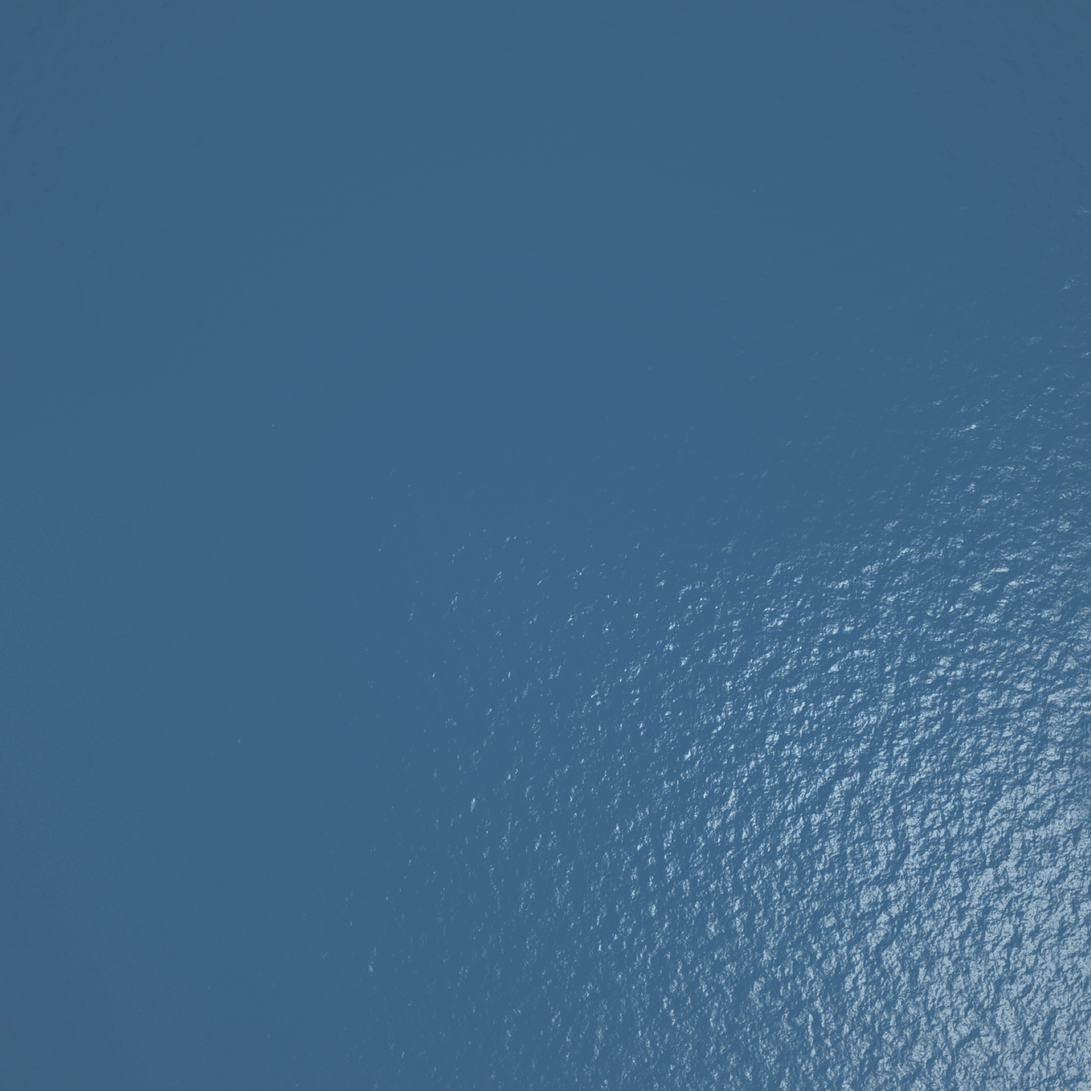
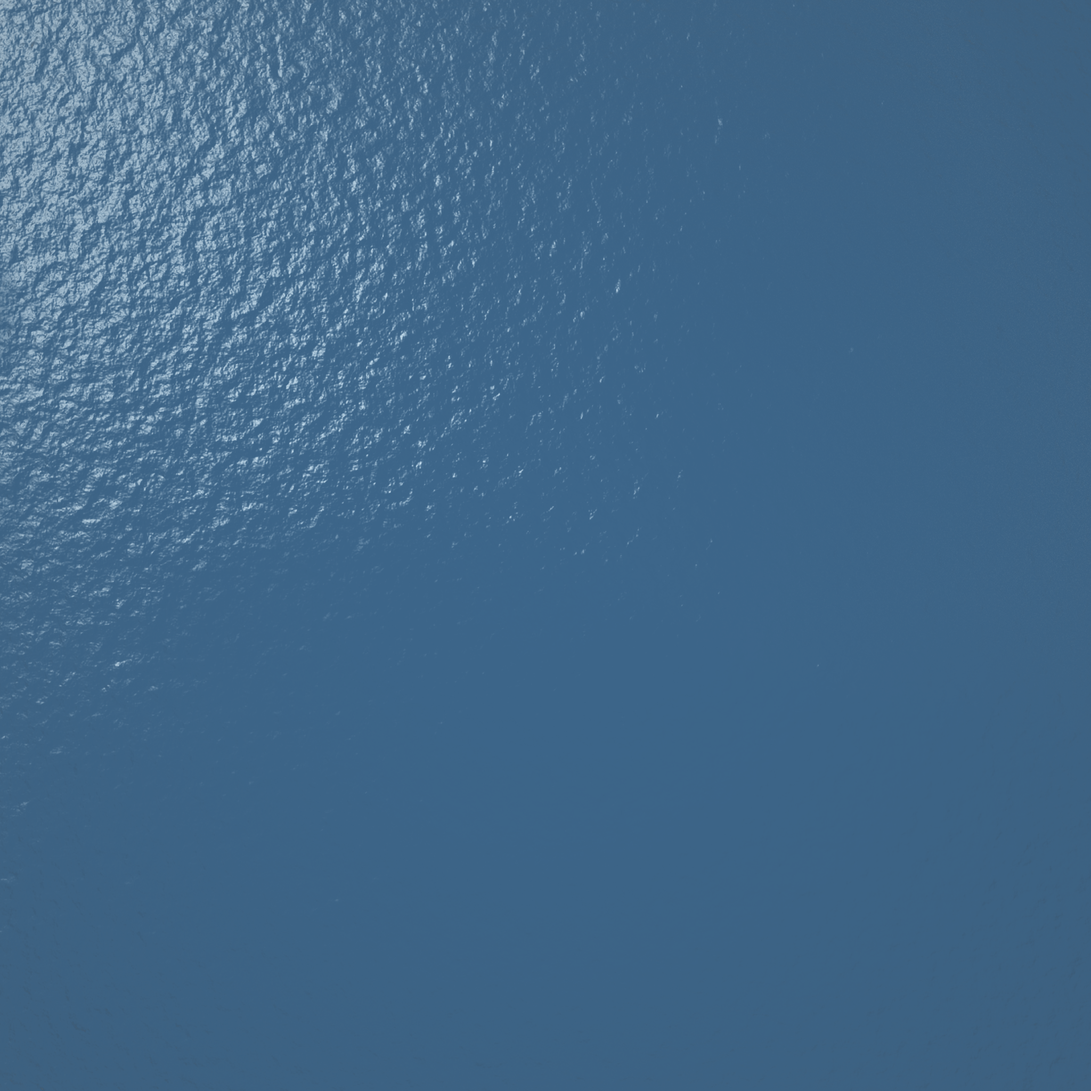
[task] Improved skybox and did minor fixes

Changed region(s): [[0.5625, 0.4688, 1.0, 1.0], [0.0, 0.0, 0.4375, 0.5312]]

diff --git a/snow.html b/snow.html
@@ -50,6 +50,12 @@
            // Global mesh object of the cube 
            var cubeMesh; 
 
+           var floorMaterial;
+           var floorGeometry;
+           var snowMaterial;
+           var snow;
+           var context;
+
            // Initialize the scene 
            initializeScene(); 
 
@@ -109,7 +115,72 @@
                // Add lights
                addLights();
 
+
+               var loader = new THREE.TextureLoader();
+
+               // Canvas
+               var canvas = document.createElement('canvas');
+               canvas.width = canvas.height = 10;
+               this.context = canvas.getContext('2d');
+
+               // -- GEOMETRY --
+
+               this.floorGeometry = new THREE.PlaneGeometry( 10, 10 , 256, 256);
+               this.floorGeometry.computeFaceNormals();
+               this.floorGeometry.computeVertexNormals();
+
+               // -- MATERIAL -- 
+               var texture = loader.load('terrain.jpg');
+               this.floorMaterial = new THREE.MeshPhongMaterial({
+                  map: texture,
+                  shading: THREE.SmoothShading,
+                  ambient: 0x404040
+
+               });
+
+               var snowTexture = new THREE.Texture(canvas);
+               
+               this.snowMaterial = new THREE.MeshPhongMaterial({
+                  map: snowTexture,
+                  // bumpMap: loader.load('snow-bump.jpg'),
+                  // bumpScale: 0.1,
+                  shading: THREE.SmoothShading,
+                  transparent: true
+               });
+
+               snowMaterial.needsUpdate = true;
+               
+               // -- MESH --
+               var floor = new THREE.Mesh( floorGeometry, floorMaterial );
+               floor.rotation.x = -Math.PI / 2;
+               floor.castShadow = true;
+               floor.receiveShadow = true;
+               scene.add( floor );
+               
+               var snow = new THREE.Mesh(floorGeometry, this.snowMaterial);
+               snow.rotation.x = -Math.PI / 2;
+               snow.castShadow = true;
+               snow.receiveShadow = true;
+               scene.add(snow);
+               this.snow = snow;
+
                // SKYBOX
+               /*
+               TODO: change loading to CubeTextureLoader
+               var urlPrefix = "skybox/";
+               var loader = new THREE.CubeTextureLoader();
+               var urls = [ urlPrefix + "xpos.png", urlPrefix + "xneg.png", urlPrefix + "ypos.png", urlPrefix + "yneg.png",urlPrefix + "zpos.png", urlPrefix + "zneg.png" ];
+               var textureCube = loader.load(urls);
+               var skyMaterial= new THREE.MeshBasicMaterial( {
+                    color: 0xffffff,
+                    envMap: textureCube,
+                    side: THREE.BackSide
+                });
+                var skyGeometry = new THREE.BoxGeometry(100, 100, 100);
+                var skyMesh = new THREE.Mesh(skyGeometry, skyMaterial);
+                scene.add(skyMesh);
+                */
+
                var urlPrefix = "skybox/";
                var urls = [ urlPrefix + "xpos.png", urlPrefix + "xneg.png", urlPrefix + "ypos.png", urlPrefix + "yneg.png",urlPrefix + "zpos.png", urlPrefix + "zneg.png" ];
                var textureCube = THREE.ImageUtils.loadTextureCube( urls , undefined, function () {
@@ -135,7 +206,7 @@
               camera.position.z = 500;
 
               controls = new THREE.OrbitControls( camera, renderer.domElement );
-              controls.addEventListener( 'change', renderer ); // remove when using animation loop
+              controls.addEventListener( 'change', renderScene ); // remove when using animation loop
               // enable animation loop when using damping or autorotation
               //controls.enableDamping = true;
               //controls.dampingFactor = 0.25;
@@ -146,20 +217,10 @@
                scene.add(camera); 
               //-----------------------------------------------------------------------------------------------------//
 
-               var floorGeometry = new THREE.PlaneGeometry( 10, 10 );
-               var floorMaterial = new THREE.MeshPhongMaterial();
                
-               texture = THREE.ImageUtils.loadTexture('terrain.jpg', {}, function() {
-                  renderScene();
-               });
-
-               floorMaterial.map = texture;
-               console.log(floorMaterial);
-               var floor = new THREE.Mesh( floorGeometry, floorMaterial );
-               floor.rotateOnAxis(new THREE.Vector3(1,0, 0).normalize(), -1.57079633);
-               scene.add( floor );
+               
         
-               for (var i = 0; i < 2000; i++) {
+               for (var i = 0; i < 1000; i++) {
 
                     var sphereGeometry = new THREE.SphereGeometry(0.01, 0.01, 0.01); 
 
@@ -186,6 +247,9 @@
                     
                }
 
+
+               
+
            } 
 
            function addLights() {
@@ -206,16 +270,21 @@
 
                for(var i = 0; i<particles.length; i++) {
 
-                    if (particles[i].position.y > -5) {
+                    if (particles[i].position.y > 0) {
                       particles[i].position.y = particles[i].position.y - 0.03
                       if (particles[i].position.x > -6 && particles[i].position.x < 6) {
                         particles[i].position.x = particles[i].position.x + movementPaths[i];
                       } else {
                         particles[i].position.x = Math.random() * 5 * plusMinusRandomizer();
                       }
-                    } else {
-                      particles[i].position.y = 4.5;
+                    } else if(particles[i].position.y < 0){
+                      this.context.fillStyle = 'rgba(192, 192, 192, 1)';
+                      this.context.fillRect(particles[i].position.x + Math.random() - 0.5, particles[i].position.y + Math.random() - 0.5, 0.5, 0.5);
+
+                      particles[i].position.y = Math.random() * 2 + 6;
                       particles[i].position.x = Math.random() * 6 * plusMinusRandomizer();
+
+                      this.snowMaterial.needsUpdate = true;
                     }
                     
                     // particle.updatePhysics(); 
